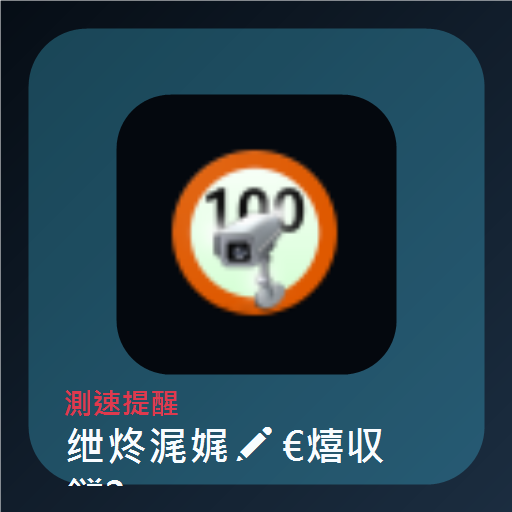
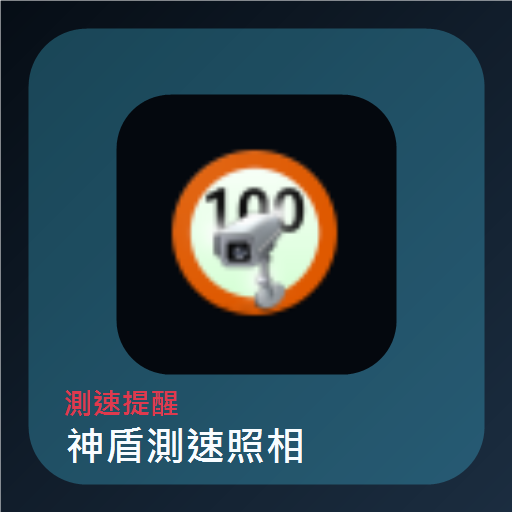
Integrate APK update center into assistant

Changed region(s): [[0.125, 0.8125, 0.75, 0.9062], [0.125, 0.9375, 0.25, 0.9688]]

diff --git a/docs/shen-yue-update-center-guide.html b/docs/shen-yue-update-center-guide.html
@@ -1,0 +1,214 @@
+<!DOCTYPE html>
+<html lang="zh-Hant">
+<head>
+  <meta charset="UTF-8">
+  <meta name="viewport" content="width=device-width, initial-scale=1.0">
+  <title>申悅車機助手更新中心零基礎教學</title>
+  <style>
+    :root {
+      --bg: #071018;
+      --panel: #101d2a;
+      --ink: #f4fbff;
+      --muted: #a8bdcf;
+      --line: rgba(72, 216, 255, .24);
+      --cyan: #48d8ff;
+      --red: #ff3347;
+      --gold: #ffd166;
+    }
+    * { box-sizing: border-box; }
+    body {
+      margin: 0;
+      color: var(--ink);
+      background: linear-gradient(140deg, #05080d, var(--bg) 62%, #132033);
+      font-family: system-ui, -apple-system, BlinkMacSystemFont, "Segoe UI", "Noto Sans TC", sans-serif;
+      line-height: 1.8;
+    }
+    header, main { max-width: 1100px; margin: 0 auto; padding: 28px 18px; }
+    header { padding-top: 42px; }
+    h1 { margin: 0 0 12px; font-size: clamp(32px, 6vw, 58px); line-height: 1.08; }
+    h2 { margin: 0 0 12px; color: var(--cyan); }
+    h3 { margin: 18px 0 8px; }
+    p { margin: 0 0 12px; color: var(--muted); }
+    section {
+      margin: 16px 0;
+      padding: 20px;
+      background: rgba(16, 29, 42, .88);
+      border: 1px solid var(--line);
+      border-radius: 12px;
+    }
+    .badge {
+      display: inline-block;
+      margin: 0 8px 8px 0;
+      padding: 6px 10px;
+      color: #fff;
+      background: rgba(72, 216, 255, .16);
+      border: 1px solid var(--line);
+      border-radius: 999px;
+      font-weight: 800;
+    }
+    .warn { border-color: rgba(255, 51, 71, .45); background: rgba(255, 51, 71, .1); }
+    .ok { border-color: rgba(53, 231, 164, .36); background: rgba(53, 231, 164, .08); }
+    ol, ul { margin: 0; padding-left: 22px; }
+    li { margin: 8px 0; }
+    code, pre {
+      color: #dff8ff;
+      background: #07131d;
+      border: 1px solid rgba(72, 216, 255, .22);
+      border-radius: 8px;
+    }
+    code { padding: 2px 6px; }
+    pre { padding: 12px; overflow-x: auto; }
+    a { color: var(--cyan); }
+    table { width: 100%; border-collapse: collapse; margin-top: 10px; }
+    th, td { padding: 10px; border-bottom: 1px solid rgba(255,255,255,.12); text-align: left; vertical-align: top; }
+    th { color: var(--gold); }
+  </style>
+</head>
+<body>
+  <header>
+    <span class="badge">申悅汽車影音</span>
+    <span class="badge">車載安卓機</span>
+    <span class="badge">全繁體中文</span>
+    <h1>申悅車機助手更新中心零基礎教學</h1>
+    <p>這份教學給完全不懂程式的人使用。新版不是獨立新增「申悅車機助手」下載卡片，而是把完整 APK 更新中心整合到申悅車機助手的「更新」分頁裡。</p>
+  </header>
+
+  <main>
+    <section class="ok">
+      <h2>你現在已經有的檔案</h2>
+      <ul>
+        <li>新版助手 APK：<code>releases\shen-yue-car-assistant-update-center-v2.0.6.apk</code></li>
+        <li>雲端頁面資料夾：<code>cloud-upload</code></li>
+        <li>雲端更新清單：<code>cloud-upload\updates.json</code></li>
+        <li>每個 App 的小圖標：<code>cloud-upload\assets\update-icons</code></li>
+        <li>每個 App 的詳情圖片：<code>cloud-upload\assets\update-gallery</code></li>
+        <li>APK 來源資料夾：<code>C:\Users\Administrator\Downloads\更新</code></li>
+      </ul>
+    </section>
+
+    <section>
+      <h2>新版更新中心位置</h2>
+      <ol>
+        <li>打開 <strong>申悅車機助手</strong>。</li>
+        <li>點首頁或下方導覽列的 <strong>更新</strong>。</li>
+        <li>畫面會進入完整 APK 更新中心。</li>
+        <li>每個 APK 會顯示一個可點擊圖標。</li>
+        <li>點圖標後會進入單獨頁面，顯示小圖標、介紹、版本、大小、兩張圖片位置與下載按鈕。</li>
+      </ol>
+      <p>申悅車機助手本身不會出現在 APK 更新清單內；它是主程式入口。首頁導覽列目前只保留「首頁、服務、教學、保固、更新、聯絡」，已移除「交車」。</p>
+    </section>
+
+    <section class="warn">
+      <h2>重要限制：Android 仍會要求確認安裝</h2>
+      <p>一般 APK 沒有系統權限，不能偷偷靜默安裝或替換其他 App。這個更新中心可以讓雲端清單、圖片、介紹、APK 下載來源隨時更新；實際安裝時，Android 系統仍會跳出確認畫面。</p>
+      <p>如果車機廠商提供系統權限或靜默安裝權限，才可能做到完全免確認安裝。</p>
+    </section>
+
+    <section>
+      <h2>第一步：放入要上架的 APK</h2>
+      <ol>
+        <li>打開資料夾：<code>C:\Users\Administrator\Downloads\更新</code></li>
+        <li>把要提供下載更新的 APK 放進去。</li>
+        <li><code>助手.apk</code> 會自動排除，不會顯示在更新中心。</li>
+        <li>如果檔名是 <code>卡1.apk</code>，更新中心會顯示為 <strong>卡1</strong>。</li>
+        <li>同一個 App 要更新時，新 APK 的 <code>versionCode</code> 必須比舊版高。</li>
+      </ol>
+    </section>
+
+    <section>
+      <h2>第二步：產生更新清單、圖標與圖片位置</h2>
+      <p>在專案資料夾執行：</p>
+      <pre>powershell -ExecutionPolicy Bypass -File .\tools\import-update-apks.ps1</pre>
+      <p>它會自動完成：</p>
+      <ul>
+        <li>解析每個 APK 的名稱、版本、大小與下載檔。</li>
+        <li>複製 APK 到 <code>cloud-upload\apks</code>。</li>
+        <li>產生 App 小圖標到 <code>cloud-upload\assets\update-icons</code>。</li>
+        <li>每個 App 產生兩張圖片位置到 <code>cloud-upload\assets\update-gallery</code>。</li>
+        <li>更新 <code>cloud-upload\updates.json</code>。</li>
+      </ul>
+    </section>
+
+    <section>
+      <h2>第三步：重新建置申悅車機助手 APK</h2>
+      <pre>powershell -ExecutionPolicy Bypass -File .\tools\build-release.ps1</pre>
+      <p>建置完成後，APK 會在：</p>
+      <pre>releases\shen-yue-car-assistant-update-center-v2.0.6.apk</pre>
+    </section>
+
+    <section>
+      <h2>第四步：一鍵上傳 GitHub</h2>
+      <p>你已安裝 GitHub CLI，位置是：</p>
+      <pre>D:\Program Files\GitHub CLI\gh.exe</pre>
+      <p>執行：</p>
+      <pre>powershell -ExecutionPolicy Bypass -File .\tools\upload-github-cloud.ps1</pre>
+      <p>它會自動上傳到：</p>
+      <ul>
+        <li><code>https://github.com/SYLONG7708/shen-yue-iphone-assistant</code>：申悅車機助手網頁與更新中心頁面。</li>
+        <li><code>https://github.com/SYLONG7708/update</code>：更新中心清單、圖標、圖片。</li>
+        <li><code>https://github.com/SYLONG7708/update/releases/tag/apk-cloud</code>：大型 APK 檔案。</li>
+        <li><code>https://github.com/SYLONG7708/shen-yue-iphone-assistant/releases/tag/assistant-apk</code>：新版申悅車機助手 APK。</li>
+      </ul>
+    </section>
+
+    <section>
+      <h2>第五步：車機端使用</h2>
+      <ol>
+        <li>把 <code>shen-yue-car-assistant-update-center-v2.0.6.apk</code> 安裝到安卓車機。</li>
+        <li>打開 <strong>申悅車機助手</strong>。</li>
+        <li>點 <strong>更新</strong>。</li>
+        <li>第一次使用先按 <strong>安裝權限</strong>，允許未知來源安裝。</li>
+        <li>按 <strong>重新整理</strong>。</li>
+        <li>點 App 項目進入單獨頁面。</li>
+        <li>確認介紹、版本與圖片後按 <strong>下載安裝</strong>。</li>
+      </ol>
+    </section>
+
+    <section>
+      <h2>如何替換單獨頁面的兩張圖片</h2>
+      <ol>
+        <li>打開 <code>cloud-upload\updates.json</code>。</li>
+        <li>找到要修改的 App。</li>
+        <li>找到 <code>galleryImages</code>，裡面會有兩個圖片檔名。</li>
+        <li>到 <code>cloud-upload\assets\update-gallery</code>。</li>
+        <li>用自己的 PNG 或 JPG 圖片覆蓋同名檔案。</li>
+        <li>檔名保持一樣，重新執行上傳腳本即可。</li>
+      </ol>
+    </section>
+
+    <section>
+      <h2>如何修改介紹文字</h2>
+      <p>打開 <code>cloud-upload\updates.json</code>，找到對應 App：</p>
+      <table>
+        <thead><tr><th>欄位</th><th>用途</th></tr></thead>
+        <tbody>
+          <tr><td><code>name</code></td><td>圖標下方與單獨頁標題。</td></tr>
+          <tr><td><code>description</code></td><td>單獨頁介紹文字，可長按複製。</td></tr>
+          <tr><td><code>iconUrl</code></td><td>更新中心小圖標。</td></tr>
+          <tr><td><code>galleryImages</code></td><td>單獨頁兩張圖片位置。</td></tr>
+          <tr><td><code>versionName</code></td><td>畫面顯示版本。</td></tr>
+          <tr><td><code>apkUrl</code></td><td>下載安裝時使用，畫面不顯示給客戶。</td></tr>
+          <tr><td><code>sha256</code></td><td>下載驗證使用，畫面不顯示給客戶。</td></tr>
+        </tbody>
+      </table>
+    </section>
+
+    <section class="warn">
+      <h2>大檔 APK 注意事項</h2>
+      <p>GitHub 一般倉庫不適合直接放超過 100 MB 的大 APK。這版已改用 GitHub Releases 放 APK，所以 Netflix、卡1、無廣告等大檔可以正常放到 Release 下載。</p>
+    </section>
+
+    <section>
+      <h2>常見問題</h2>
+      <h3>打開更新頁沒有看到檔案</h3>
+      <p>先確認 <code>updates.json</code> 已上傳到 <code>SYLONG7708/update</code>，再按「重新整理」。如果 GitHub 暫時讀不到，APK 內建清單會作為備援。</p>
+      <h3>按下載後顯示「已是最新」</h3>
+      <p>代表車機內已安裝版本碼大於或等於雲端版本碼。請確認新版 APK 的 <code>versionCode</code> 有變高。</p>
+      <h3>下載後不能覆蓋安裝</h3>
+      <p>通常是包名相同但簽章不同。Android 會要求先移除舊版再安裝。</p>
+      <h3>我不想顯示下載網址、包名、SHA</h3>
+      <p>新版畫面已隱藏這些欄位，只保留系統下載與驗證使用。</p>
+    </section>
+  </main>
+</body>
+</html>

diff --git a/index.html b/index.html
@@ -133,24 +133,6 @@
       </div>
     </section>
 
-    <section class="tab-panel" id="delivery" data-tab-panel>
-      <div class="panel-head">
-        <p>Checklist</p>
-        <h2>交車檢查表</h2>
-      </div>
-      <div class="checklist" data-checklist>
-        <label><input type="checkbox"> 藍牙通話測試完成</label>
-        <label><input type="checkbox"> 音樂播放測試完成</label>
-        <label><input type="checkbox"> 導航定位測試完成</label>
-        <label><input type="checkbox"> 倒車顯影測試完成</label>
-        <label><input type="checkbox"> 方向盤控制測試完成</label>
-        <label><input type="checkbox"> 行車記錄器錄影測試完成</label>
-        <label><input type="checkbox"> 客戶已知道重開機方式</label>
-        <label><input type="checkbox"> 客戶已加入 LINE 售後服務</label>
-      </div>
-      <button class="secondary-button" type="button" data-reset-checklist>重設檢查表</button>
-    </section>
-
     <section class="tab-panel update-panel" id="updates" data-tab-panel>
       <div class="update-hero">
         <img src="assets/update-splash.png" alt="申悅更新中心啟動畫面">

diff --git a/app.js b/app.js
@@ -650,6 +650,7 @@ function switchTab(tabId) {
 }
 
 function restoreChecklist() {
+  if (!checklist) return;
   const saved = JSON.parse(localStorage.getItem(checklistKey) || "[]");
   checklist.querySelectorAll("input").forEach((input, index) => {
     input.checked = Boolean(saved[index]);
@@ -767,12 +768,14 @@ document.addEventListener("click", (event) => {
 
 videoSearch.addEventListener("input", renderVideos);
 
-checklist.addEventListener("change", () => {
-  const values = [...checklist.querySelectorAll("input")].map((input) => input.checked);
-  localStorage.setItem(checklistKey, JSON.stringify(values));
-});
+if (checklist) {
+  checklist.addEventListener("change", () => {
+    const values = [...checklist.querySelectorAll("input")].map((input) => input.checked);
+    localStorage.setItem(checklistKey, JSON.stringify(values));
+  });
+}
 
-document.querySelector("[data-reset-checklist]").addEventListener("click", () => {
+document.querySelector("[data-reset-checklist]")?.addEventListener("click", () => {
   localStorage.removeItem(checklistKey);
   restoreChecklist();
 });
@@ -828,7 +831,7 @@ document.querySelector("[data-export-data]").addEventListener("click", () => {
   const data = {
     warranty: getRecord(),
     admin: getAdminSettings(),
-    checklist: JSON.parse(localStorage.getItem(checklistKey) || "[]")
+    checklist: checklist ? JSON.parse(localStorage.getItem(checklistKey) || "[]") : []
   };
   adminOutput.textContent = JSON.stringify(data, null, 2);
 });

diff --git a/docs/apk-update-image-guide.html b/docs/apk-update-image-guide.html
@@ -78,9 +78,9 @@
     <section class="ok">
       <h2>一、最新申悅車機助手 APK 在哪裡</h2>
       <p>這是要安裝到安卓車機的新版申悅車機助手 APK：</p>
-      <pre>C:\Users\Administrator\Desktop\CODEX 專案資料夾\製作過的 APP 以及資料\申悅車機助手_更新中心_20260603\releases\shen-yue-car-assistant-update-center-v2.0.5.apk</pre>
+      <pre>C:\Users\Administrator\Desktop\CODEX 專案資料夾\製作過的 APP 以及資料\申悅車機助手_更新中心_20260603\releases\shen-yue-car-assistant-update-center-v2.0.6.apk</pre>
       <p>線上下載位置：</p>
-      <pre>https://github.com/SYLONG7708/shen-yue-iphone-assistant/releases/download/assistant-apk/shen-yue-car-assistant-update-center-v2.0.5.apk</pre>
+      <pre>https://github.com/SYLONG7708/shen-yue-iphone-assistant/releases/download/assistant-apk/shen-yue-car-assistant-update-center-v2.0.6.apk</pre>
     </section>
 
     <section>
@@ -121,14 +121,14 @@ powershell -ExecutionPolicy Bypass -File .\tools\import-update-apks.ps1</pre>
           </tr>
         </thead>
         <tbody>
-          <tr><td>Disney+</td><td><code>com-disney-disneyplus-1765287900-photo-1.png</code></td><td><code>com-disney-disneyplus-1765287900-photo-2.png</code></td></tr>
+          <tr><td>Disney+</td><td><code>com-disney-disneyplus-1765287900-photo-1.png</code></td><td><code>com-disney-disneyplus-1765287900-photo-2.jpg</code></td></tr>
           <tr><td>Gboard</td><td><code>com-google-android-inputmethod-latin-80959513-photo-1.png</code></td><td><code>com-google-android-inputmethod-latin-80959513-photo-2.png</code></td></tr>
-          <tr><td>Netflix</td><td><code>com-netflix-mediaclient-64073-photo-1.png</code></td><td><code>com-netflix-mediaclient-64073-photo-2.png</code></td></tr>
+          <tr><td>Netflix</td><td><code>com-netflix-mediaclient-64073-photo-1.png</code></td><td><code>com-netflix-mediaclient-64073-photo-2.jpeg</code></td></tr>
           <tr><td>卡1</td><td><code>com-kingwaytek-1717-photo-1.png</code></td><td><code>com-kingwaytek-1717-photo-2.png</code></td></tr>
           <tr><td>Google Zhuyin Input</td><td><code>com-google-android-apps-inputmethod-zhuyin-2451412-photo-1.png</code></td><td><code>com-google-android-apps-inputmethod-zhuyin-2451412-photo-2.png</code></td></tr>
           <tr><td>神盾測速照相</td><td><code>tw-com-ainvest-outpack-228-photo-1.png</code></td><td><code>tw-com-ainvest-outpack-228-photo-2.png</code></td></tr>
-          <tr><td>microG Services</td><td><code>app-revanced-android-gms-250932004-photo-1.png</code></td><td><code>app-revanced-android-gms-250932004-photo-2.png</code></td></tr>
-          <tr><td>YouTube Morphe</td><td><code>app-morphe-android-youtube-1558230464-photo-1.png</code></td><td><code>app-morphe-android-youtube-1558230464-photo-2.png</code></td></tr>
+          <tr><td>microG Services</td><td><code>app-revanced-android-gms-250932004-photo-1.png</code></td><td><code>app-revanced-android-gms-250932004-photo-2.jpg</code></td></tr>
+          <tr><td>YouTube Morphe</td><td><code>app-morphe-android-youtube-1558230464-photo-1.png</code></td><td><code>app-morphe-android-youtube-1558230464-photo-2.jpg</code></td></tr>
         </tbody>
       </table>
     </section>

diff --git a/styles.css b/styles.css
@@ -1020,8 +1020,9 @@ h3 {
 .update-gallery-slot img {
   display: block;
   width: 100%;
-  aspect-ratio: 16 / 9;
-  object-fit: cover;
+  height: clamp(220px, 24vw, 420px);
+  object-fit: contain;
+  background: #050b12;
 }
 
 .update-gallery-slot figcaption {
@@ -1237,6 +1238,10 @@ h3 {
     aspect-ratio: 16 / 9;
     height: auto;
     min-height: 0;
+  }
+
+  .update-gallery-slot img {
+    height: clamp(180px, 56vw, 320px);
   }
 
   .update-copy-list div {

diff --git a/service-worker.js b/service-worker.js
@@ -1,4 +1,4 @@
-const cacheName = "shen-yue-assistant-v205-update-first-no-icons";
+const cacheName = "shen-yue-assistant-v206-gallery-name-fix";
 const assets = [
   "./",
   "./index.html",